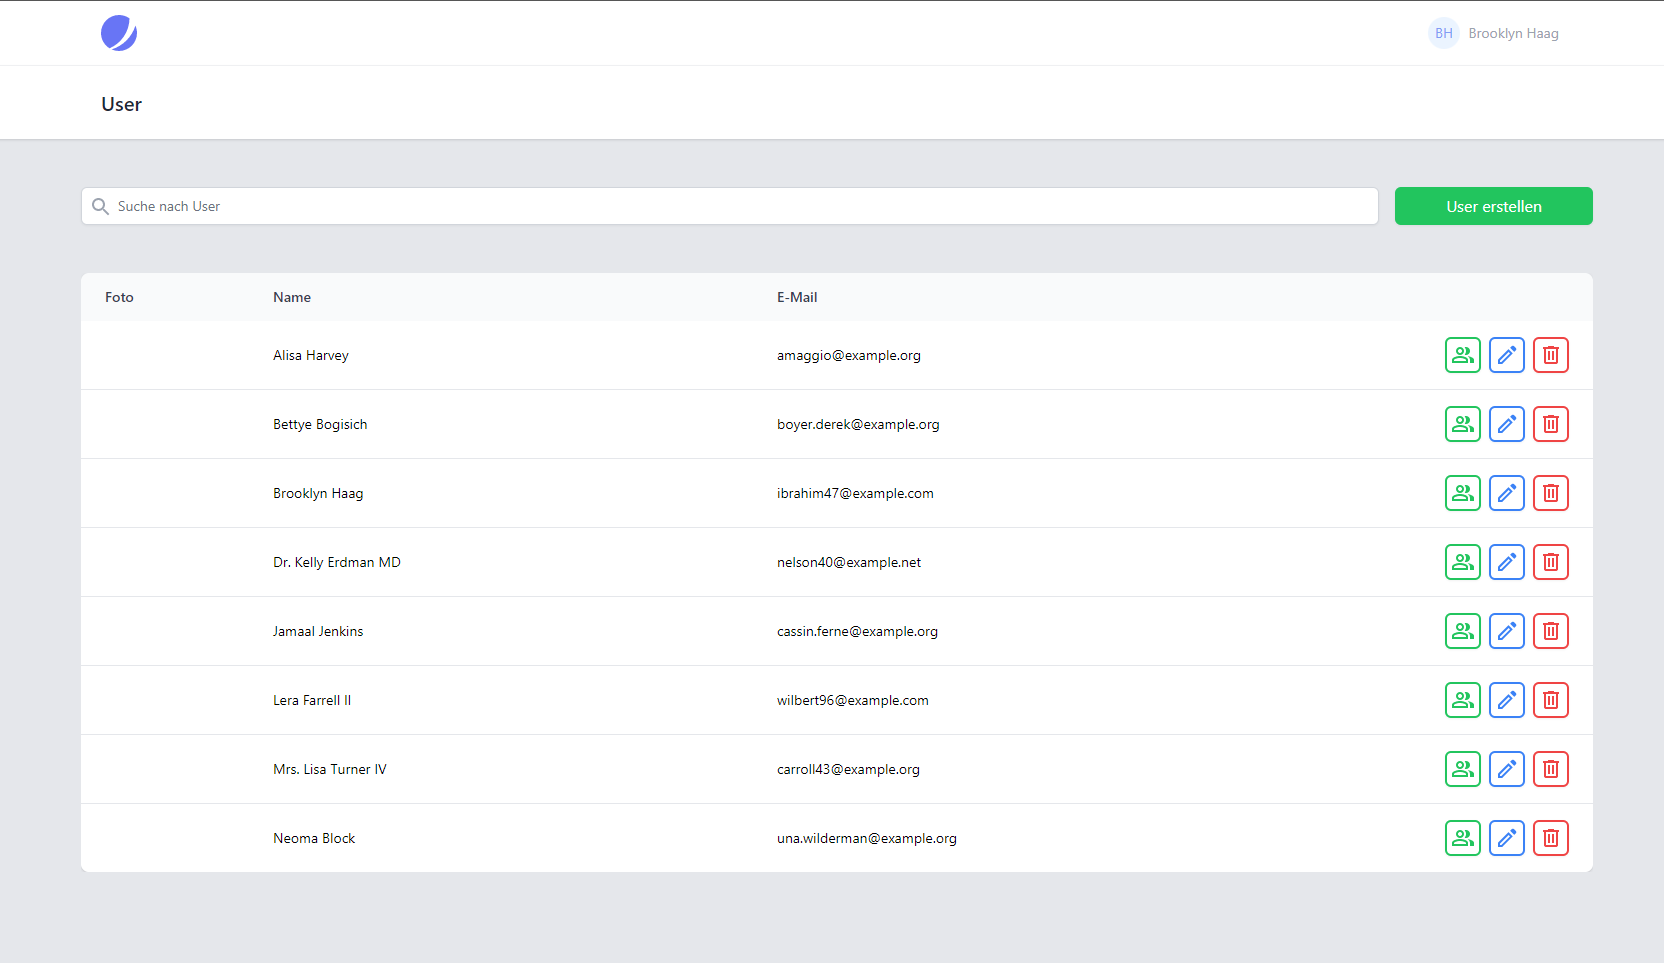
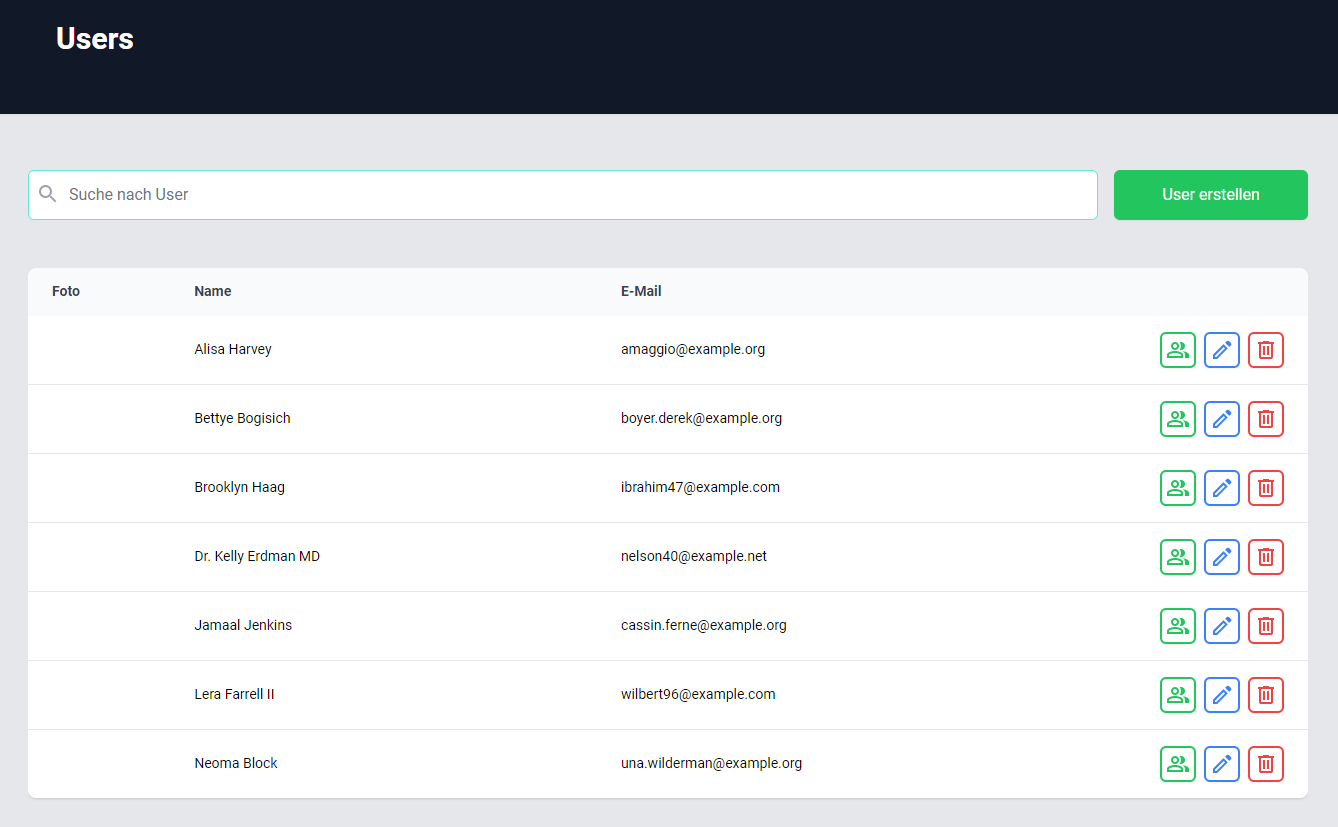
update 12.10.2022

diff --git a/resources/views/livewire/user/index.blade.php b/resources/views/livewire/user/index.blade.php
@@ -1,120 +1,137 @@
-<div class="container mx-auto">
-    <div class="">
-        <div class="relative w-full mb-12 mt-7">
-            <x:component::element.search wire:model.debounce.300ms="search" type="text" placeholder="Suche nach User" />
+<div>
+    <x-slot name="header">
+        <div class="flex items-center gap-1">
+            <h2 class="font-semibold leading-tight">
+                {{ __('Users') }}
+            </h2>
         </div>
-
-        <div class="grid grid-cols-1 gap-4 lg:col-span-2">
-
-            <div class="w-full overflow-hidden">
-                <div class="overflow-x-auto shadow md:rounded-lg">
-                    <div class="">
-                        <table class="w-full">
-                            <thead class="bg-gray-50">
-                                <tr class="">
-                                    <th scope="col"
-                                        class="px-3 py-3.5 text-sm font-semibold text-gray-700 text-left pl-6 w-1/12">
-                                        Foto
-                                    </th>
-
-                                    <th scope="col"
-                                        class="px-3 py-3.5 text-sm font-semibold text-gray-700 text-left pl-6 w-3/12">
-                                        Name
-                                    </th>
-
-                                    <th scope="col"
-                                        class="px-3 py-3.5 text-sm font-semibold text-gray-700 text-left pl-6 w-3/12">
-                                        E-Mail
-                                    </th>
-
-                                    <th scope="col" class="w-2/12"></th>
-                                </tr>
-                            </thead>
-                            <tbody class="bg-white divide-y divide-gray-200">
-
-                                @foreach ($content as $value)
-                                    <tr class="hover:bg-gray-50">
-                                        <td class="py-4 pl-4 pr-3 text-sm whitespace-nowrap sm:pl-6">
-                                            @if (!empty($value->profile_photo_url) && file_exists($value->profile_photo_url))
-                                                <img src="{{ asset($value->profile_photo_url) }}"
-                                                    alt="{{ $value->name }}" title="{{ $value->name }}"
-                                                    class="block max-h-12" />
-                                            @endif
-                                        </td>
-
-                                        <td class="py-4 pl-4 pr-3 text-sm whitespace-nowrap sm:pl-6">
-                                            {{ $value->name }}
-                                        </td>
-
-                                        <td class="py-4 pl-4 pr-3 text-sm whitespace-nowrap sm:pl-6">
-                                            {{ $value->email }}
-                                        </td>
+    </x-slot>
+    <div class="container mx-auto">
+        <div class="">
+            <div class="flex flex-col gap-4 mb-12 md:flex-row mt-7">
+                <div class="relative w-full">
+                    <x:component::element.search wire:model.debounce.300ms="search" type="text"
+                        placeholder="Suche nach User" />
+                </div>
+                <button wire:click="create" type="button"
+                    class="flex items-center justify-center w-56 px-5 text-white bg-green-500 border-0 rounded-md shadow-sm hover:text-white hover:bg-green-600 default-transition">
+                    User erstellen
+                </button>
+            </div>
 
 
-                                        <td
-                                            class="flex items-center justify-end gap-2 py-4 pl-3 pr-4 text-sm font-medium text-right whitespace-nowrap sm:pr-6">
+            <div class="grid grid-cols-1 gap-4 lg:col-span-2">
 
-                                            @if (Reinholdjesse\Usermanager\UserManagerFeatures::managesUserSwitcher())
-                                                <button wire:click="switchUser({{ $value->id }})" type="button"
-                                                    class="flex items-center justify-center text-green-500 border-2 border-green-500 rounded-md shadow-sm hover:text-white w-9 h-9 hover:bg-green-600 default-transition">
+                <div class="w-full overflow-hidden">
+                    <div class="overflow-x-auto shadow md:rounded-lg">
+                        <div class="">
+                            <table class="w-full">
+                                <thead class="bg-gray-50">
+                                    <tr class="">
+                                        <th scope="col"
+                                            class="px-3 py-3.5 text-sm font-semibold text-gray-700 text-left pl-6 w-1/12">
+                                            Foto
+                                        </th>
 
-                                                    <svg xmlns="http://www.w3.org/2000/svg" height="24"
-                                                        width="24" fill="currentColor">
-                                                        <path
-                                                            d="M1 20v-2.8q0-.85.438-1.563.437-.712 1.162-1.087 1.55-.775 3.15-1.163Q7.35 13 9 13t3.25.387q1.6.388 3.15 1.163.725.375 1.162 1.087Q17 16.35 17 17.2V20Zm18 0v-3q0-1.1-.612-2.113-.613-1.012-1.738-1.737 1.275.15 2.4.512 1.125.363 2.1.888.9.5 1.375 1.112Q23 16.275 23 17v3ZM9 12q-1.65 0-2.825-1.175Q5 9.65 5 8q0-1.65 1.175-2.825Q7.35 4 9 4q1.65 0 2.825 1.175Q13 6.35 13 8q0 1.65-1.175 2.825Q10.65 12 9 12Zm10-4q0 1.65-1.175 2.825Q16.65 12 15 12q-.275 0-.7-.062-.425-.063-.7-.138.675-.8 1.037-1.775Q15 9.05 15 8q0-1.05-.363-2.025Q14.275 5 13.6 4.2q.35-.125.7-.163Q14.65 4 15 4q1.65 0 2.825 1.175Q19 6.35 19 8ZM3 18h12v-.8q0-.275-.137-.5-.138-.225-.363-.35-1.35-.675-2.725-1.013Q10.4 15 9 15t-2.775.337Q4.85 15.675 3.5 16.35q-.225.125-.362.35-.138.225-.138.5Zm6-8q.825 0 1.413-.588Q11 8.825 11 8t-.587-1.412Q9.825 6 9 6q-.825 0-1.412.588Q7 7.175 7 8t.588 1.412Q8.175 10 9 10Zm0 8ZM9 8Z" />
-                                                    </svg>
-                                                </button>
-                                            @endif
+                                        <th scope="col"
+                                            class="px-3 py-3.5 text-sm font-semibold text-gray-700 text-left pl-6 w-3/12">
+                                            Name
+                                        </th>
 
+                                        <th scope="col"
+                                            class="px-3 py-3.5 text-sm font-semibold text-gray-700 text-left pl-6 w-3/12">
+                                            E-Mail
+                                        </th>
 
-                                            <x:component::button.edit wire:click.prevent="edit({{ $value->id }})"
-                                                type="button" />
-
-                                            <x:component::element.modal>
-                                                <x-slot:trigger>
-                                                    <x:component::button.delete @click.prevent="modal=true"
-                                                        type="button" />
-                                                </x-slot:trigger>
-
-                                                <x-slot:content>
-                                                    <div class="flex justify-center ">
-                                                        <div
-                                                            class="flex items-center justify-center text-red-500 bg-red-200 rounded-full shadow-sm w-28 h-28">
-                                                            <x:component::icon.delete class="h-16" />
-                                                        </div>
-                                                    </div>
-                                                    <div class="flex justify-center mt-7">
-                                                        <h3 class="text-lg font-bold text-center text-gray-700">
-                                                            {{ $value->name }} löschen?</h3>
-                                                    </div>
-                                                </x-slot:content>
-
-                                                <x-slot:controller>
-                                                    <button @click.prevent="modal=false" type="button"
-                                                        class="flex justify-center w-full px-4 py-2 mr-2 font-medium text-center text-white bg-gray-300 border border-transparent rounded-md shadow-sm hover:bg-gray-400 focus:outline-none focus:ring-2 focus:ring-offset-2 focus:ring-gray-500">Abbrechen</button>
-
-                                                    <button wire:click="delete({{ $value->id }})"
-                                                        @click.prevent="modal=false" type="button"
-                                                        class="flex justify-center w-full px-4 py-2 font-medium text-center text-white bg-red-500 border border-transparent rounded-md shadow-sm hover:bg-red-600 focus:outline-none focus:ring-2 focus:ring-offset-2 focus:ring-red-500">löschen</button>
-                                                </x-slot:controller>
-                                            </x:component::element.modal>
-
-                                        </td>
+                                        <th scope="col" class="w-2/12"></th>
                                     </tr>
-                                @endforeach
-                            </tbody>
-                        </table>
+                                </thead>
+                                <tbody class="bg-white divide-y divide-gray-200">
+
+                                    @foreach ($content as $value)
+                                        <tr class="hover:bg-gray-50">
+                                            <td class="py-4 pl-4 pr-3 text-sm whitespace-nowrap sm:pl-6">
+                                                @if (!empty($value->profile_photo_url) && file_exists($value->profile_photo_url))
+                                                    <img src="{{ asset($value->profile_photo_url) }}"
+                                                        alt="{{ $value->name }}" title="{{ $value->name }}"
+                                                        class="block max-h-12" />
+                                                @endif
+                                            </td>
+
+                                            <td class="py-4 pl-4 pr-3 text-sm whitespace-nowrap sm:pl-6">
+                                                {{ $value->name }}
+                                            </td>
+
+                                            <td class="py-4 pl-4 pr-3 text-sm whitespace-nowrap sm:pl-6">
+                                                {{ $value->email }}
+                                            </td>
+
+
+                                            <td
+                                                class="flex items-center justify-end gap-2 py-4 pl-3 pr-4 text-sm font-medium text-right whitespace-nowrap sm:pr-6">
+
+                                                @if (Reinholdjesse\Usermanager\UserManagerFeatures::managesUserSwitcher())
+                                                    <button wire:click="switchUser({{ $value->id }})" type="button"
+                                                        class="flex items-center justify-center text-green-500 border-2 border-green-500 rounded-md shadow-sm hover:text-white w-9 h-9 hover:bg-green-600 default-transition">
+
+                                                        <svg xmlns="http://www.w3.org/2000/svg" height="24"
+                                                            width="24" fill="currentColor">
+                                                            <path
+                                                                d="M1 20v-2.8q0-.85.438-1.563.437-.712 1.162-1.087 1.55-.775 3.15-1.163Q7.35 13 9 13t3.25.387q1.6.388 3.15 1.163.725.375 1.162 1.087Q17 16.35 17 17.2V20Zm18 0v-3q0-1.1-.612-2.113-.613-1.012-1.738-1.737 1.275.15 2.4.512 1.125.363 2.1.888.9.5 1.375 1.112Q23 16.275 23 17v3ZM9 12q-1.65 0-2.825-1.175Q5 9.65 5 8q0-1.65 1.175-2.825Q7.35 4 9 4q1.65 0 2.825 1.175Q13 6.35 13 8q0 1.65-1.175 2.825Q10.65 12 9 12Zm10-4q0 1.65-1.175 2.825Q16.65 12 15 12q-.275 0-.7-.062-.425-.063-.7-.138.675-.8 1.037-1.775Q15 9.05 15 8q0-1.05-.363-2.025Q14.275 5 13.6 4.2q.35-.125.7-.163Q14.65 4 15 4q1.65 0 2.825 1.175Q19 6.35 19 8ZM3 18h12v-.8q0-.275-.137-.5-.138-.225-.363-.35-1.35-.675-2.725-1.013Q10.4 15 9 15t-2.775.337Q4.85 15.675 3.5 16.35q-.225.125-.362.35-.138.225-.138.5Zm6-8q.825 0 1.413-.588Q11 8.825 11 8t-.587-1.412Q9.825 6 9 6q-.825 0-1.412.588Q7 7.175 7 8t.588 1.412Q8.175 10 9 10Zm0 8ZM9 8Z" />
+                                                        </svg>
+                                                    </button>
+                                                @endif
+
+
+                                                <x:component::button.edit wire:click.prevent="edit({{ $value->id }})"
+                                                    type="button" />
+
+                                                <x:component::element.modal>
+                                                    <x-slot:trigger>
+                                                        <x:component::button.delete @click.prevent="modal=true"
+                                                            type="button" />
+                                                    </x-slot:trigger>
+
+                                                    <x-slot:content>
+                                                        <div class="flex justify-center ">
+                                                            <div
+                                                                class="flex items-center justify-center text-red-500 bg-red-200 rounded-full shadow-sm w-28 h-28">
+                                                                <x:component::icon.delete class="h-16" />
+                                                            </div>
+                                                        </div>
+                                                        <div class="flex justify-center mt-7">
+                                                            <h3 class="text-lg font-bold text-center text-gray-700">
+                                                                {{ $value->name }} löschen?</h3>
+                                                        </div>
+                                                    </x-slot:content>
+
+                                                    <x-slot:controller>
+                                                        <button @click.prevent="modal=false" type="button"
+                                                            class="flex justify-center w-full px-4 py-2 mr-2 font-medium text-center text-white bg-gray-300 border border-transparent rounded-md shadow-sm hover:bg-gray-400 focus:outline-none focus:ring-2 focus:ring-offset-2 focus:ring-gray-500">Abbrechen</button>
+
+                                                        <button wire:click="delete({{ $value->id }})"
+                                                            @click.prevent="modal=false" type="button"
+                                                            class="flex justify-center w-full px-4 py-2 font-medium text-center text-white bg-red-500 border border-transparent rounded-md shadow-sm hover:bg-red-600 focus:outline-none focus:ring-2 focus:ring-offset-2 focus:ring-red-500">löschen</button>
+                                                    </x-slot:controller>
+                                                </x:component::element.modal>
+
+                                            </td>
+                                        </tr>
+                                    @endforeach
+                                </tbody>
+                            </table>
+                        </div>
+                    </div>
+
+                    @if ($openEdit)
+                        @include('usermanager::livewire.user.edit')
+                    @endif
+
+                    <div class="mx-5 mt-14">
+                        {{ $content->links('livewire::tailwind') }}
                     </div>
                 </div>
-
-                @if ($openEdit)
-                    @include('usermanager::livewire.user.edit')
-                @endif
-
-                <div class="mx-5 mt-14">
-                    {{ $content->links('livewire::tailwind') }}
-                </div>
             </div>
-        </div>
 
+        </div>
     </div>

diff --git a/resources/views/livewire/user/edit.blade.php b/resources/views/livewire/user/edit.blade.php
@@ -71,8 +71,7 @@
 
         </div>
         <div class="grid grid-cols-2 gap-4 px-4 text-right bg-gray-100 py-7 sm:px-6">
-            <button wire:click="cloasEditWindow" type="button"
-                class="flex justify-center w-full px-4 py-2 mr-2 font-medium text-center text-gray-400 border border-transparent rounded-md hover:bg-gray-200 hover:text-gray-700 focus:outline-none focus:ring-2 focus:ring-offset-2 focus:ring-gray-500">Abbrechen</button>
+            <x:component::button.cancel wire:click="cloasEditWindow" />
 
             <button wire:click="update" type="button"
                 class="flex justify-center w-full px-4 py-2 font-medium text-center text-white bg-green-500 border border-transparent rounded-md shadow-sm hover:bg-green-600 focus:outline-none focus:ring-2 focus:ring-offset-2 focus:ring-green-500">Speichern</button>
